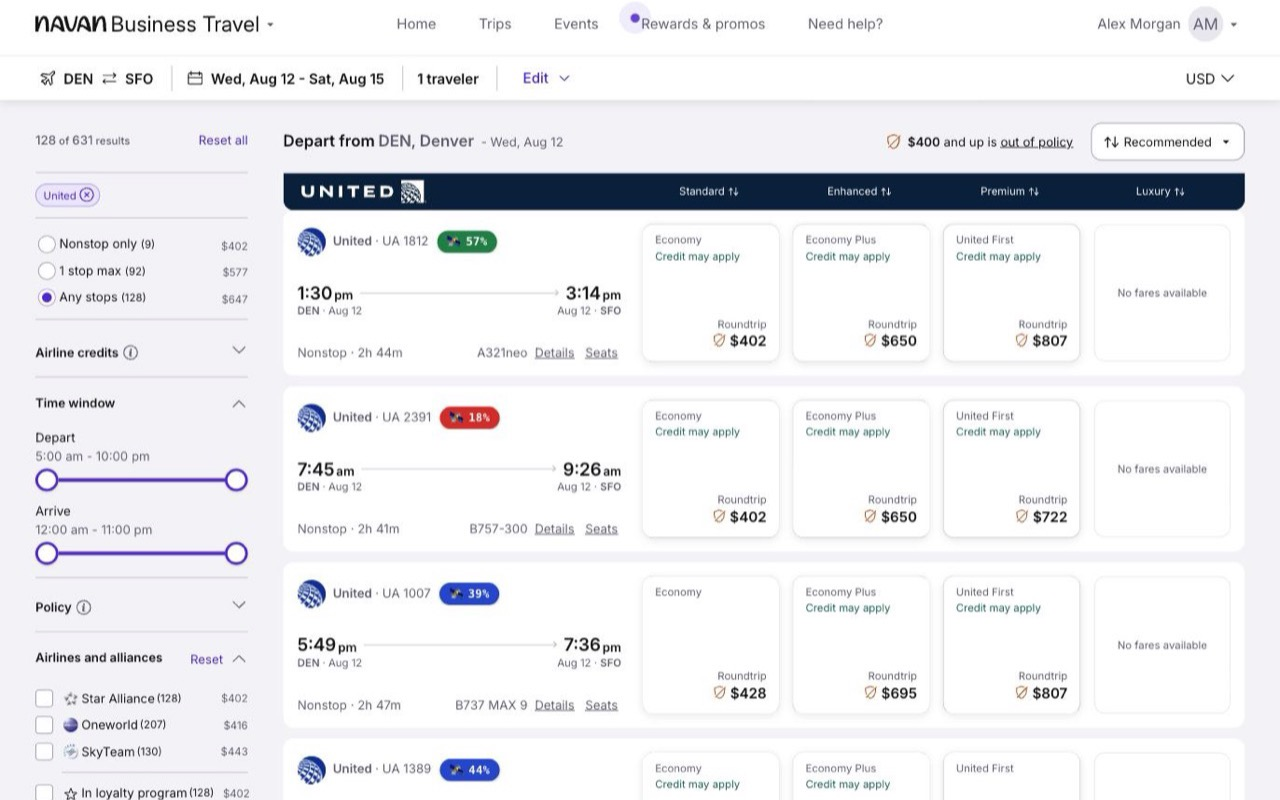
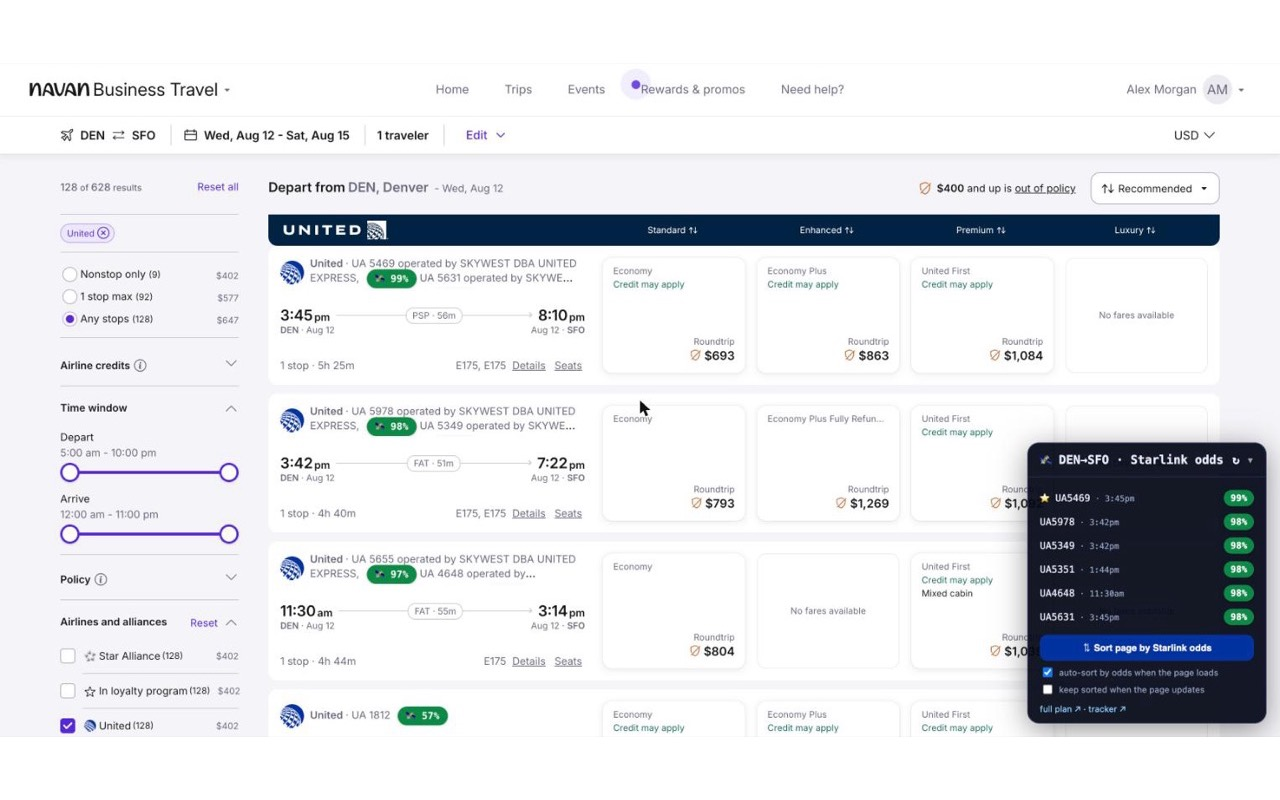
extension v1.5.3: sort + auto-sort now work on Navan (DOM route context, deeper container walk, fixed auto-sort trigger); fresh Navan screenshot

diff --git a/extension/content.js b/extension/content.js
@@ -16,6 +16,7 @@
   const TIME_RE = /\b\d{1,2}:\d{2}\s?[ap]\.?m\.?/gi;
   let ctx = null;            // {o,d,date,phase} — the ACTIVE leg
   let ctxKey = "";
+  let navanCtxCache = null, navanCtxKey = "", navanSig = "";
   let data = null, panelEl = null, scanScheduled = false;
   let probMap = new Map();
   let registry = new Map();
@@ -44,8 +45,44 @@
   try { chrome.storage.local.get("uslKeepSorted", (v) => { keepSorted = !!v.uslKeepSorted; }); } catch {}
   try { chrome.storage.local.get("uslAutoSort", (v) => { autoSort = !!v.uslAutoSort; if (autoSort) scheduleScan(); }); } catch {}
 
+  /* ── Navan: derive route context from the DOM (no URL params there) ── */
+  function getNavanContext() {
+    const txt = (document.body && document.body.innerText) || "";
+    const legO = (txt.match(/Depart from\s*([A-Z]{3})/) || [])[1] || "";
+    const cacheKey = location.pathname + "|" + legO;
+    if (navanCtxCache && navanCtxKey === cacheKey) return navanCtxCache;
+    let o, d;
+    // the trip strip is a stable ".flight-header__route" whose text is the two
+    // airport codes with the swap glyph as an icon (e.g. innerText "DENSFO").
+    let el = document.querySelector(".flight-header__route");
+    if (!el) el = [...document.querySelectorAll("div, span, button, h1, h2, h3")].find((e) =>
+      e.children.length <= 4 && /^[A-Z]{3}[^A-Z]{0,3}[A-Z]{3}$/.test((e.textContent || "").trim())
+      && !e.closest(".flight-search-results__option"));
+    if (el) { const m = (el.textContent || "").trim().match(/([A-Z]{3})[^A-Z]{0,3}([A-Z]{3})/); if (m) { o = m[1]; d = m[2]; } }
+    if (!/^[A-Z]{3}$/.test(o || "") || !/^[A-Z]{3}$/.test(d || "") || o === d) return null;
+    const isReturn = legO && legO === d;              // showing the return leg
+    if (isReturn) { const t = o; o = d; d = t; }
+    const c = { o, d, date: "", phase: isReturn ? "return" : "depart", navan: true };
+    navanCtxCache = c; navanCtxKey = cacheKey;
+    return c;
+  }
+  // Panel ranked list on Navan is built from the on-page badged flights (there is
+  // no route-data fetch on Navan — the per-flight badge path stays untouched).
+  function navanTopFlights() {
+    const seen = new Set(), arr = [];
+    for (const [fn, r] of registry.entries()) {
+      if (!r.rowEl.isConnected || seen.has(fn)) continue;
+      const hit = probMap.get(fn);
+      if (!hit || typeof hit.prob !== "number") continue;
+      seen.add(fn);
+      arr.push({ fn, prob: hit.prob });
+    }
+    return arr.sort((a, b) => b.prob - a.prob).slice(0, 6);
+  }
+
   /* ── context: route + leg phase + date ── */
   function getContext() {
+    if (NAVAN) return getNavanContext();
     let o, d, dep, ret;
     try {
       const p = new URLSearchParams(location.search);
@@ -70,7 +107,7 @@
     if (isNaN(t)) return "";
     return new Date(t).toLocaleDateString(undefined, { month: "short", day: "numeric" });
   }
-  const depsRelevant = () => ctx && daysOut(ctx.date) <= 3;
+  const depsRelevant = () => ctx && !!ctx.date && daysOut(ctx.date) <= 3;
 
   function loadData(r, force) {
     return new Promise((resolve) => {
@@ -215,7 +252,7 @@
     const badge = document.querySelector(".usl-badge");
     if (!badge) return null;
     let best = null, bestScore = 0, e = badge.parentElement;
-    for (let i = 0; i < 14 && e && e !== document.body; i++, e = e.parentElement) {
+    for (let i = 0; i < 20 && e && e !== document.body; i++, e = e.parentElement) {
       const fns = [...e.children]
         .map((k) => ((k.textContent || "").match(FN_RE) || [])[1]).filter(Boolean);
       const distinct = new Set(fns).size;
@@ -258,7 +295,7 @@
   /* Auto-sort once on load (opt-in) after odds for the on-page flights have settled;
      maybeResort() then keeps it sorted through United's re-renders. */
   function maybeAutoSort() {
-    if (!autoSort || desiredOrder || pendingPredict.size) return;
+    if (!autoSort || desiredOrder) return;
     const P = findContainer();
     if (!P) return;
     const units = [...P.children].filter((k) => FN_RE.test(k.textContent || ""));
@@ -291,7 +328,7 @@
     const p = document.createElement("div");
     p.className = "usl-panel";
     chrome.storage.local.get("uslCollapsed", (v) => { if (v.uslCollapsed) p.classList.add("usl-collapsed"); });
-    const flights = (data && data.flights || []).slice(0, 6);
+    const flights = ctx.navan ? navanTopFlights() : (data && data.flights || []).slice(0, 6);
     const rel = depsRelevant();
     const deps = rel ? (data && data.deps || []).slice(0, 3) : [];
     const itin = (data && data.itins || []).find((it) => it.via && it.via.length && it.coverage === "full");
@@ -410,6 +447,18 @@
     const c = getContext();
     if (!c) { if (panelEl) { panelEl.remove(); panelEl = null; } ctx = null; ctxKey = ""; return; }
     const key = `${c.o}-${c.d}|${c.date}|${c.phase}`;
+    if (c.navan) {
+      // Navan: badges come from scan()/predictions; just (re)render the panel from
+      // the on-page flights and let sortPage/auto-sort/keep-sorted do their thing.
+      const routeChanged = !ctx || c.o !== ctx.o || c.d !== ctx.d || c.phase !== ctx.phase;
+      ctx = c; ctxKey = key;
+      if (routeChanged) { desiredOrder = null; navanSig = ""; }
+      scheduleScan();
+      const sig = navanTopFlights().map((f) => f.fn + f.prob).join(",");
+      if (!panelEl || !panelEl.isConnected || sig !== navanSig) { navanSig = sig; renderPanel(); }
+      refreshPanelTimes();
+      return;
+    }
     if (key === ctxKey && data) {
       if (!panelEl || !panelEl.isConnected) renderPanel();
       refreshPanelTimes();
